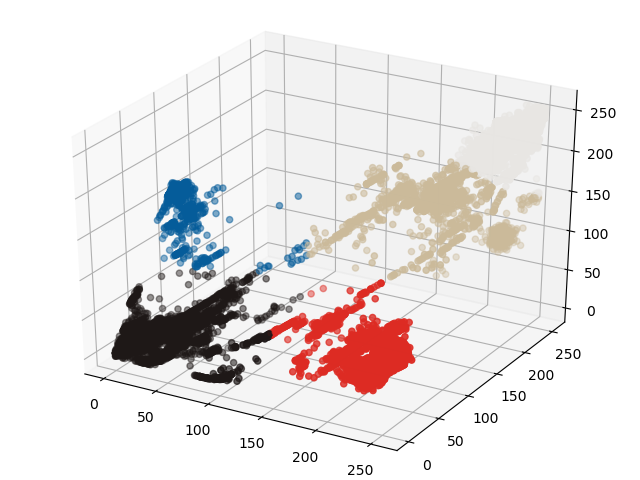
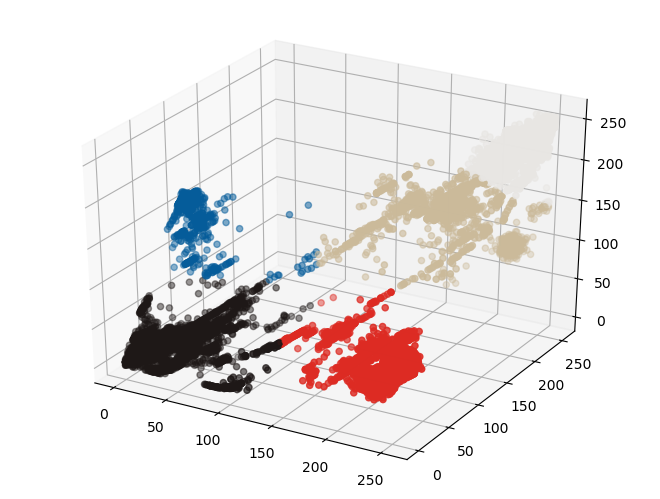
Tighten bounding box

diff --git a/clustering/k_means.py b/clustering/k_means.py
@@ -55,7 +55,7 @@ def plot_3d(image, show=True, save_fname=None, use_rgb_colors=True):
     ax.scatter(r, g, b, c=None if not use_rgb_colors
                else image.reshape(-1, 3) / 255) # colors each point with it's RGB color value
 
-    if save_fname: plt.savefig(save_fname)
+    if save_fname: plt.savefig(save_fname, bbox_inches='tight')
     if show: plt.show()
 
 def plot_clusters(image, labels, colors, show=True, save_fname=None):
@@ -70,7 +70,7 @@ def plot_clusters(image, labels, colors, show=True, save_fname=None):
     ax = Axes3D(fig)
     ax.scatter(r, g, b, c=colors[labels] / 255)
 
-    if save_fname: plt.savefig(save_fname)
+    if save_fname: plt.savefig(save_fname, bbox_inches='tight')
     if show: plt.show()
 
 def plot_histogram(n_clusters, colors, show=True, save_fname=None):
@@ -97,7 +97,7 @@ def plot_histogram(n_clusters, colors, show=True, save_fname=None):
     plt.figure()
     plt.axis("off")
     plt.imshow(chart)
-    if save_fname: plt.savefig(save_fname)
+    if save_fname: plt.savefig(save_fname, bbox_inches='tight')
     if show: plt.show()
 
 try:
